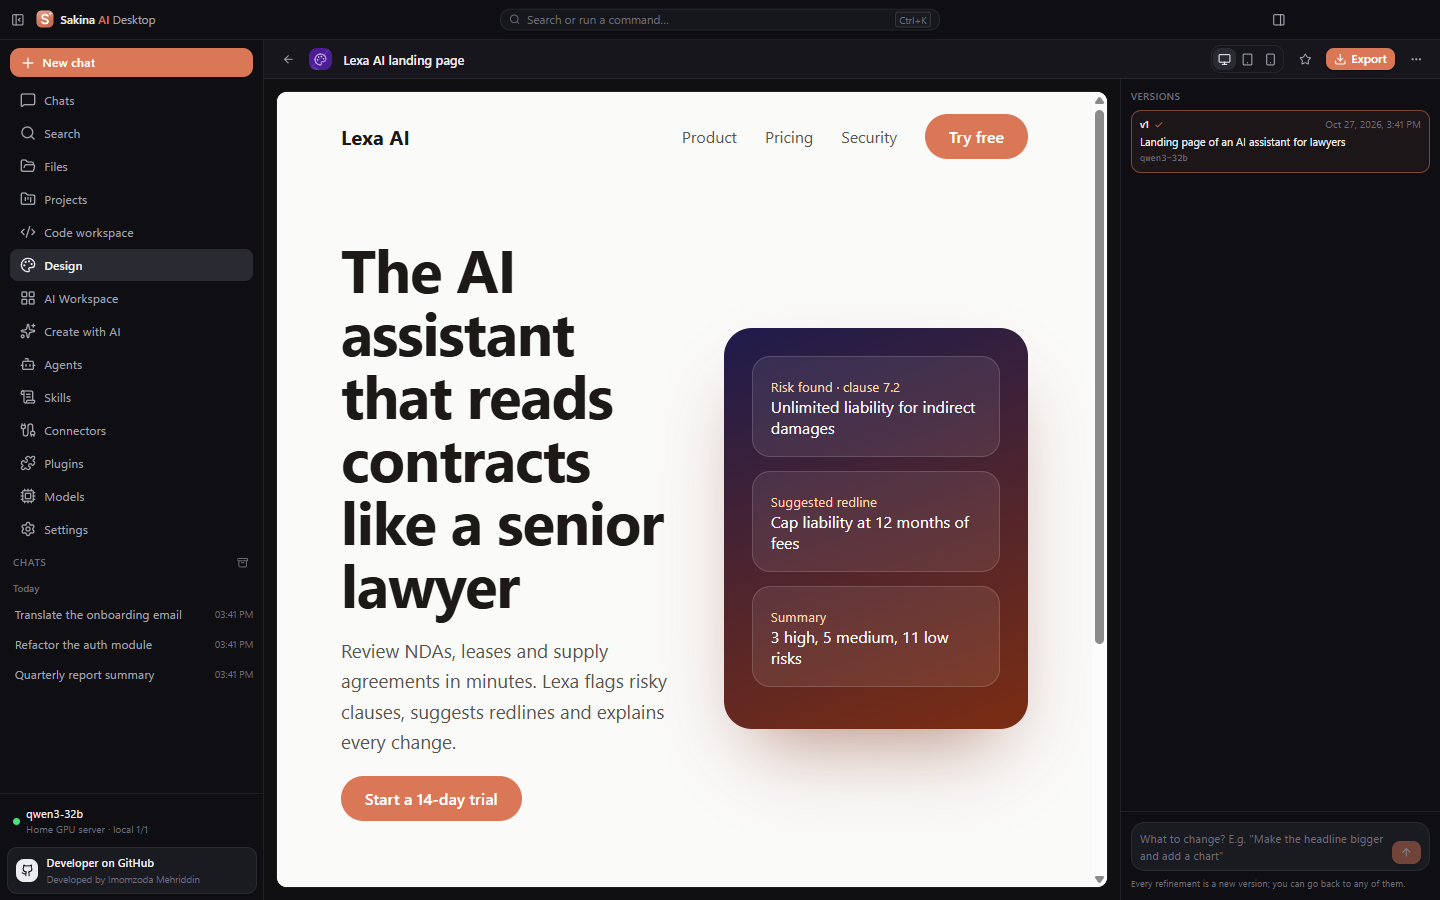
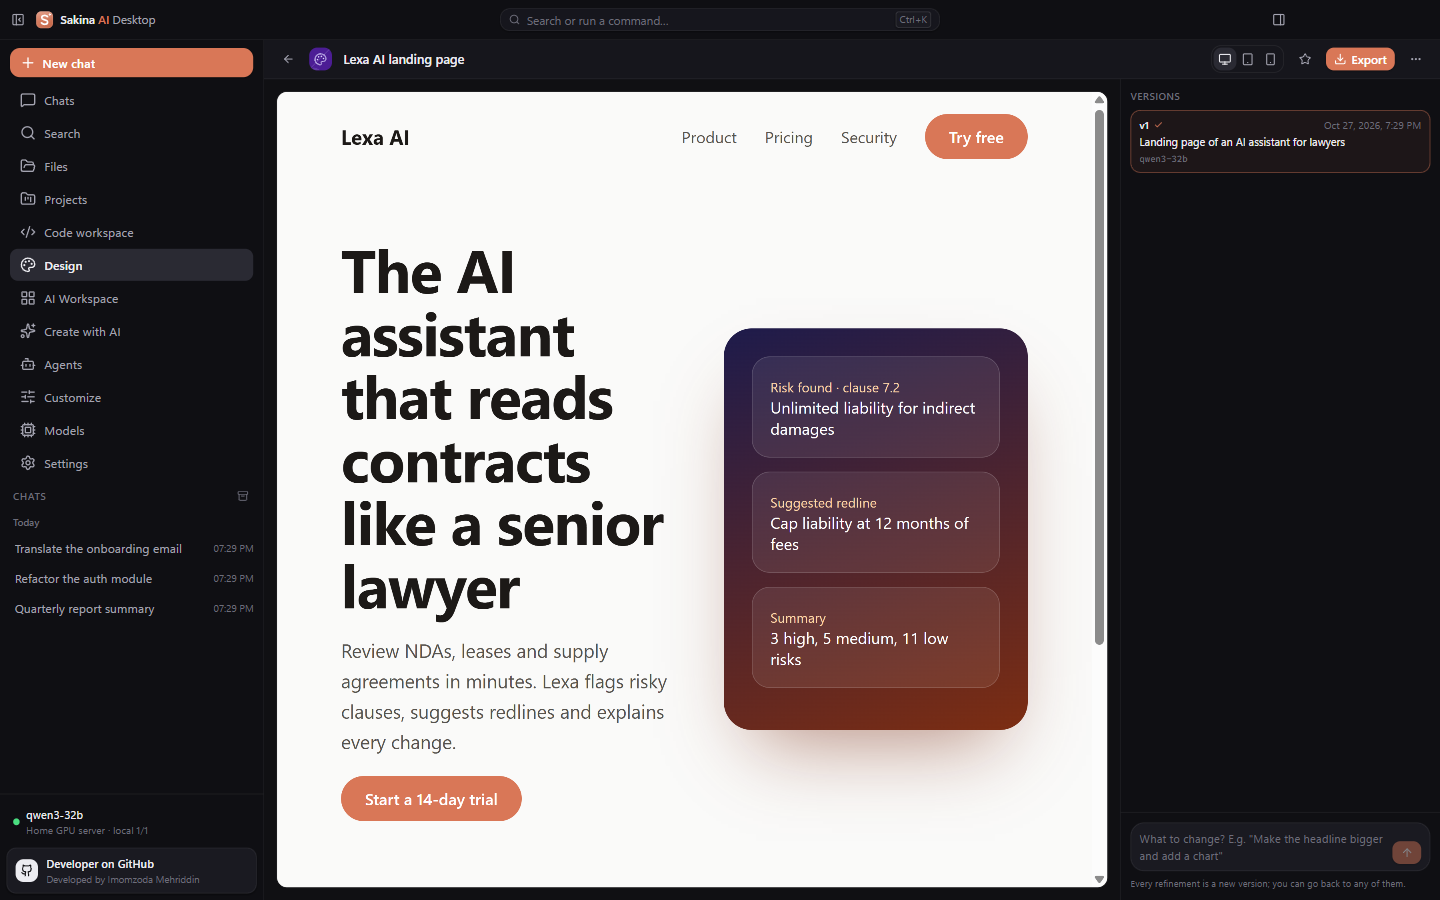
Sakina AI Desktop 1.1.5: Customize hub, 58 connectors, background Design, smart editor
README (EN/RU): what's new in 1.1.5 with new screenshots, v1.1.5 in the downloads table.
Changelog 1.1.5.

diff --git a/README.ru.md b/README.ru.md
@@ -19,6 +19,23 @@
 
 ---
 
+## ✨ Новое в 1.1.5
+
+<img src="docs/screenshots/22-customize-connectors.png" alt="Персонализация — коннекторы с логотипами и подборками" width="900" />
+
+- **Персонализация** — Skills, Коннекторы и Плагины в одном разделе, как в Claude: переключатель разделов, «Мои / Обзор», поиск, фильтр и «Добавить»; подборки, «Самые популярные» и разделы по категориям, карточки с настоящими логотипами сервисов, отметкой официального разработчика и типом входа, окно подробностей с инструментами сервера.
+- **58 коннекторов** (было 19): Linear, Atlassian (Jira, Confluence), Asana, monday.com, ClickUp, Slack, Zapier, Canva, Miro, Webflow, Wix, Vercel, Cloudflare, Stripe, PayPal, Square, Neon, Prisma Postgres, MongoDB, Airtable, HubSpot, PostHog, Perplexity и другие — каждый адрес и пакет проверен. Сервисы с аккаунтом подключаются в один клик со входом в браузере.
+- **Импорт MCP-серверов** из Claude Desktop или вставкой JSON-конфигурации (Cursor, VS Code) — импортированные серверы создаются выключенными, ключи хранятся зашифрованными.
+- **Design в фоне** — живой прогресс с этапами; кнопка **«Свернуть в фон»** превращает окно в компактный индикатор справа сверху, пока вы работаете дальше, и сообщает, когда дизайн готов.
+- **Умный редактор кода** — подсказки как в VS Code для Python, Go, Rust, Java, C#, C/C++, PHP, Ruby, Kotlin, Dart, SQL и командных оболочек: набрали `pri` → `print`, подписи, описания, сниппеты, члены модулей, ваши функции и классы, подсказки параметров. **ИИ-дополнение** предлагает следующие строки серым текстом (Tab — принять).
+
+| | |
+|---|---|
+| <img src="docs/screenshots/23-connector-details.png" alt="Подробности коннектора" /> | <img src="docs/screenshots/26-python-intellisense.png" alt="Подсказки Python" /> |
+| **Подробности коннектора** — разработчик, вход, инструменты | **Редактор кода** — подсказки и ИИ-дополнение |
+| <img src="docs/screenshots/24-design-progress.png" alt="Прогресс Design" /> | <img src="docs/screenshots/25-design-background.png" alt="Design в фоне" /> |
+| **Design** — живой прогресс с этапами | **Фоновая генерация** — работайте дальше и получите уведомление |
+
 ## ✨ Новое в 1.1.4
 
 <img src="docs/screenshots/15-ai-workspace.png" alt="Пространство ИИ — виджеты, созданные из чата" width="900" />
@@ -41,6 +58,7 @@
 
 | Версия | Скачивания |
 |---|---|
+| [v1.1.5](https://github.com/imomzoda-dev/SakinaAiDesktop/releases/tag/v1.1.5) | [![v1.1.5](https://img.shields.io/github/downloads/imomzoda-dev/SakinaAiDesktop/v1.1.5/total?label=%D1%81%D0%BA%D0%B0%D1%87%D0%B8%D0%B2%D0%B0%D0%BD%D0%B8%D0%B9&color=D97757&style=flat-square)](https://github.com/imomzoda-dev/SakinaAiDesktop/releases/tag/v1.1.5) |
 | [v1.1.4](https://github.com/imomzoda-dev/SakinaAiDesktop/releases/tag/v1.1.4) | [![v1.1.4](https://img.shields.io/github/downloads/imomzoda-dev/SakinaAiDesktop/v1.1.4/total?label=%D1%81%D0%BA%D0%B0%D1%87%D0%B8%D0%B2%D0%B0%D0%BD%D0%B8%D0%B9&color=D97757&style=flat-square)](https://github.com/imomzoda-dev/SakinaAiDesktop/releases/tag/v1.1.4) |
 | [v1.1.3](https://github.com/imomzoda-dev/SakinaAiDesktop/releases/tag/v1.1.3) | [![v1.1.3](https://img.shields.io/github/downloads/imomzoda-dev/SakinaAiDesktop/v1.1.3/total?label=%D1%81%D0%BA%D0%B0%D1%87%D0%B8%D0%B2%D0%B0%D0%BD%D0%B8%D0%B9&color=D97757&style=flat-square)](https://github.com/imomzoda-dev/SakinaAiDesktop/releases/tag/v1.1.3) |
 | [v1.1.2](https://github.com/imomzoda-dev/SakinaAiDesktop/releases/tag/v1.1.2) | [![v1.1.2](https://img.shields.io/github/downloads/imomzoda-dev/SakinaAiDesktop/v1.1.2/total?label=%D1%81%D0%BA%D0%B0%D1%87%D0%B8%D0%B2%D0%B0%D0%BD%D0%B8%D0%B9&color=D97757&style=flat-square)](https://github.com/imomzoda-dev/SakinaAiDesktop/releases/tag/v1.1.2) |
@@ -68,7 +86,7 @@
 | 🎨 **Design** | Слайды, дизайны, дизайн в кодовой базе и дизайн-системы от ИИ: версии, предпросмотр на устройствах, режим показа, экспорт в PDF / HTML |
 | ✨ **Skills** | Каталог из 232 популярных навыков в 13 категориях (Anthropic, ui-ux-pro-max, Vercel, obra/superpowers, wshobson/agents…), готовые наборы, обновление с GitHub, свои навыки; применяются автоматически или командой `/имя` |
 | 📄 **Любые файлы** | Word, Excel, PowerPoint, PDF, изображения, аудио и видео открываются прямо в программе; контекстное меню проводника со всеми действиями |
-| 🔌 **Коннекторы** | 19 проверенных MCP-коннекторов (GitHub, Context7, DeepWiki, Microsoft Learn, Playwright, Notion, Brave Search, Supabase, Sentry…) — токены хранятся зашифрованными |
+| 🔌 **Коннекторы** | 58 проверенных MCP-коннекторов (GitHub, Context7, DeepWiki, Microsoft Learn, Playwright, Notion, Brave Search, Supabase, Sentry…) — токены хранятся зашифрованными |
 | 🧩 **Плагины** | Официальный маркетплейс Anthropic (300+ плагинов) и любые маркетплейсы GitHub в формате Claude Code: навыки, slash-команды и коннекторы |
 | 🧭 **Удобство** | Глобальная клавиша `Ctrl+Shift+Space`, значок в трее, палитра команд `Ctrl+K`, справка `Ctrl+/`, черновики, стили ответа, уведомления, светлая и тёмная темы, сворачиваемый сайдбар |
 | 🔒 **Безопасность** | Защита путей, анализ риска команд, правила разрешений, журнал аудита, резервные копии с проверкой SHA-256, копия базы перед каждым обновлением схемы |

diff --git a/README.md b/README.md
@@ -20,6 +20,23 @@
 
 ---
 
+## ✨ New in 1.1.5
+
+<img src="docs/screenshots/22-customize-connectors.png" alt="Customize — connectors with logos and collections" width="900" />
+
+- **Customize** — Skills, Connectors and Plugins in one place, like Claude: section switch, Mine / Browse, search, filter and **Add**; featured collections, "most popular" and category sections, cards with real service logos, verified developers and sign-in type, a details window with the server's tools.
+- **58 connectors** (was 19): Linear, Atlassian (Jira, Confluence), Asana, monday.com, ClickUp, Slack, Zapier, Canva, Miro, Webflow, Wix, Vercel, Cloudflare, Stripe, PayPal, Square, Neon, Prisma Postgres, MongoDB, Airtable, HubSpot, PostHog, Perplexity and more — every endpoint and package checked. Account-based services connect in one click with sign-in in your browser.
+- **Import MCP servers** from Claude Desktop or by pasting a JSON config (Cursor, VS Code) — imported servers start disabled, secrets are stored encrypted.
+- **Design in the background** — a live progress bar with stages; **Minimize to background** turns the window into a compact indicator at the top right while you keep working, and tells you when the design is ready.
+- **Smart code editor** — IntelliSense like VS Code for Python, Go, Rust, Java, C#, C/C++, PHP, Ruby, Kotlin, Dart, SQL and shells: type `pri` → `print`, signatures, docs, snippets, module members, your own functions and classes, parameter hints. **AI completion** suggests the next lines as grey text (Tab accepts).
+
+| | |
+|---|---|
+| <img src="docs/screenshots/23-connector-details.png" alt="Connector details" /> | <img src="docs/screenshots/26-python-intellisense.png" alt="Python IntelliSense" /> |
+| **Connector details** — developer, sign-in, tools | **Code editor** — IntelliSense and AI completion |
+| <img src="docs/screenshots/24-design-progress.png" alt="Design progress" /> | <img src="docs/screenshots/25-design-background.png" alt="Design in the background" /> |
+| **Design** — live progress with stages | **Background generation** — keep working, get notified |
+
 ## ✨ New in 1.1.4
 
 <img src="docs/screenshots/15-ai-workspace.png" alt="AI Workspace — widgets created from the chat" width="900" />
@@ -42,6 +59,7 @@
 
 | Version | Downloads |
 |---|---|
+| [v1.1.5](https://github.com/imomzoda-dev/SakinaAiDesktop/releases/tag/v1.1.5) | [![v1.1.5](https://img.shields.io/github/downloads/imomzoda-dev/SakinaAiDesktop/v1.1.5/total?label=downloads&color=D97757&style=flat-square)](https://github.com/imomzoda-dev/SakinaAiDesktop/releases/tag/v1.1.5) |
 | [v1.1.4](https://github.com/imomzoda-dev/SakinaAiDesktop/releases/tag/v1.1.4) | [![v1.1.4](https://img.shields.io/github/downloads/imomzoda-dev/SakinaAiDesktop/v1.1.4/total?label=downloads&color=D97757&style=flat-square)](https://github.com/imomzoda-dev/SakinaAiDesktop/releases/tag/v1.1.4) |
 | [v1.1.3](https://github.com/imomzoda-dev/SakinaAiDesktop/releases/tag/v1.1.3) | [![v1.1.3](https://img.shields.io/github/downloads/imomzoda-dev/SakinaAiDesktop/v1.1.3/total?label=downloads&color=D97757&style=flat-square)](https://github.com/imomzoda-dev/SakinaAiDesktop/releases/tag/v1.1.3) |
 | [v1.1.2](https://github.com/imomzoda-dev/SakinaAiDesktop/releases/tag/v1.1.2) | [![v1.1.2](https://img.shields.io/github/downloads/imomzoda-dev/SakinaAiDesktop/v1.1.2/total?label=downloads&color=D97757&style=flat-square)](https://github.com/imomzoda-dev/SakinaAiDesktop/releases/tag/v1.1.2) |
@@ -69,7 +87,7 @@ Counters come live from GitHub; the app shows the same numbers in *Settings → 
 | 🎨 **Design** | Slides, designs, designs in your codebase and design systems made by AI; versions, device preview, presentation mode, PDF / HTML export |
 | ✨ **Skills** | Catalog of 232 popular skills in 13 categories (Anthropic, ui-ux-pro-max, Vercel, obra/superpowers, wshobson/agents…), starter packs, updates from GitHub, your own skills; used automatically or with `/skill-name` |
 | 📄 **Any file** | Word, Excel, PowerPoint, PDF, images, audio and video open inside the app; explorer context menu with every file action |
-| 🔌 **Connectors** | 19 verified MCP connectors (GitHub, Context7, DeepWiki, Microsoft Learn, Playwright, Notion, Brave Search, Supabase, Sentry…) — tokens stored encrypted |
+| 🔌 **Connectors** | 58 verified MCP connectors (GitHub, Context7, DeepWiki, Microsoft Learn, Playwright, Notion, Brave Search, Supabase, Sentry…) — tokens stored encrypted |
 | 🧩 **Plugins** | The official Anthropic marketplace (300+ plugins) and any GitHub marketplace in Claude Code format: skills, slash commands and connectors |
 | 🧭 **Comfort** | Global hotkey `Ctrl+Shift+Space`, tray icon, command palette `Ctrl+K`, shortcuts `Ctrl+/`, drafts per chat, response styles, notifications, light/dark themes, collapsible sidebar |
 | 🔒 **Safety** | Path guard, command risk analysis, permission rules, audit log, backups with SHA-256 verification, database copy before every schema upgrade |

diff --git a/CHANGELOG.md b/CHANGELOG.md
@@ -1,5 +1,15 @@
 # Журнал изменений
 
+## 1.1.5
+
+- **Персонализация** — Skills, Коннекторы и Плагины собраны в один раздел, как в Claude: переключатель разделов, «Мои / Обзор», поиск, фильтр и кнопка «Добавить». Карусель подборок («Для разработчиков», «Исследования в интернете», «Командная работа», «Дизайн и веб»), секции «Самые популярные» и по категориям, карточки с настоящими логотипами сервисов, отметкой официального разработчика и типом входа, окно подробностей со списком инструментов.
+- **58 коннекторов** вместо 19: Linear, Atlassian (Jira, Confluence), Asana, monday.com, ClickUp, Slack, Zapier, Canva, Miro, Webflow, Wix, Vercel, Cloudflare, Stripe, PayPal, Square, Neon, Prisma Postgres, MongoDB, Airtable, HubSpot, PostHog, Perplexity и другие. Каждый адрес и пакет проверен. Сервисы со входом через аккаунт подключаются в один клик — страница входа открывается в браузере.
+- **Импорт MCP-серверов** из Claude Desktop или вставкой JSON-конфигурации (Cursor, VS Code); импортированные серверы создаются выключенными, а ключи сохраняются зашифрованными.
+- **Плагины** в новом дизайне: подборки и разделы по категориям, окно подробностей, маркетплейс выбирается в фильтре.
+- **Design: фоновая генерация** — красивый прогресс с этапами, процентом, объёмом и временем; кнопка «Свернуть в фон» плавно превращает окно в компактный индикатор справа сверху, пока вы работаете в других разделах. Когда дизайн готов, индикатор и уведомление сообщают об этом и открывают результат одним кликом. Доработка дизайна тоже может идти в фоне.
+- **Умный редактор кода** в Рабочем месте, как в VS Code: подсказки при наборе для Python, Go, Rust, Java, C#, C/C++, PHP, Ruby, Kotlin, Dart, SQL и командных оболочек (набрали `pri` — сразу `print`), встроенные функции с подписями и описаниями, сниппеты, члены модулей (`os.`, `json.`, `math.`…), функции и классы из ваших файлов, подсказки параметров и описания при наведении. **ИИ-дополнение** предлагает продолжение кода серым текстом (Tab — принять); по умолчанию включено для локальных моделей.
+- Меню сайдбара стало короче: Skills, Коннекторы и Плагины — один пункт «Персонализация».
+
 ## 1.1.4
 
 - **Пространство ИИ (Generative UI)** — интерфейс меняется обычной фразой в чате: «Добавь календарь справа в стиле Liquid Glass», «Сделай его шире», «Покажи загрузку процессора и видеокарты», «Верни как было». ИИ создаёт и настраивает виджеты через проверенные декларативные операции (Zod-схемы, всё или ничего), а не правкой кода. Работает с любой подключённой моделью: с tool calling — напрямую, без него — через строгий протокол действий; частые команды распознаются шаблонами мгновенно и без модели.
